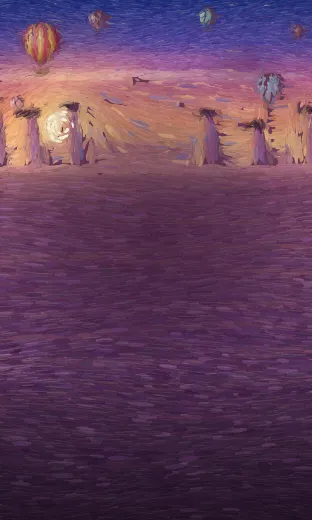
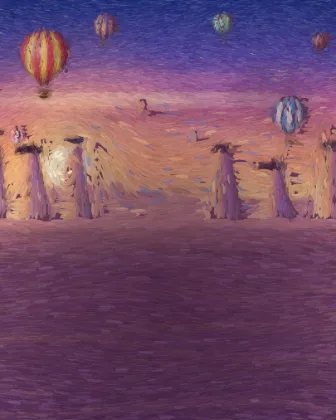
WIP (agents): selling-composed table thumbnails, effects in progress
Claude-Session: https://claude.ai/code/session_01CsFEdfga1NVSso6TsM8PXG

diff --git a/kahvehane/game/dev/tablebake.ts b/kahvehane/game/dev/tablebake.ts
@@ -3,46 +3,78 @@
 // TABLE_BAKE). Market ızgarası, vitrin, setler, koleksiyon ve "Dene"/ürün penceresi (canlı boya gelene dek) bunu gösterir.
 // Elle: /dev/tablebake.html (?only=bogaz) — resimleri ve boyutlarını gösterir.
 import {TABLES} from '../src/themes/tables';
-import {TABLE_BAKE} from '../src/ui/tablepv';
+import {FULL_BAKE, TABLE_BAKE, TABLE_THUMB, TABLE_ZOOM, THUMB} from '../src/ui/tablepv';
 
 const only = new URLSearchParams(location.search).get('only');
+// boyanın yığın halkası (themes/paint.ts spotOf): yüksekliğin %45.5'i
+const RING_Y = 0.455;
 
 interface Out {
   id: string;
+  file: string;
   url: string;
   bytes: number;
   ms: number;
 }
 
+const toUrl = async (c: HTMLCanvasElement, q: number): Promise<{url: string; bytes: number} | null> => {
+  const blob = await new Promise<Blob | null>(r => c.toBlob(r, 'image/webp', q));
+  if (!blob) return null;
+  const url = await new Promise<string>(r => {
+    const fr = new FileReader();
+    fr.onload = () => r(fr.result as string);
+    fr.readAsDataURL(blob);
+  });
+  return {url, bytes: blob.size};
+};
+
+function show(label: string, url: string, w: number): void {
+  const img = new Image();
+  img.src = url;
+  img.style.cssText = `display:inline-block;vertical-align:top;width:${w}px;margin:4px 8px 14px 0`;
+  const lab = document.createElement('div');
+  lab.textContent = label;
+  document.body.append(lab, img);
+}
+
 async function bake(): Promise<Out[]> {
   const out: Out[] = [];
-  const {w, h, dpr, q} = TABLE_BAKE;
   for (const t of TABLES) {
     if (!t.paint || (only && t.id !== only)) continue;
     const t0 = performance.now();
-    const src = await t.paint(w, h, dpr);
-    // boya daha düşük çözünürlükte dönebilir: hedef boya gerilerek çizilir (oyundaki gibi)
+    // 1) satış küçük resmi: oyun oranında büyük çiz, imzayı kırp
+    const big = await t.paint(TABLE_BAKE.w, TABLE_BAKE.h, TABLE_BAKE.dpr);
+    const bw = big.width, bh = big.height;
+    const z = TABLE_ZOOM[t.id] ?? {w: 1, x: 0};
+    const sw = bw * z.w, sx = bw * z.x;
+    const sh = Math.min(bh, (sw * THUMB.h) / THUMB.w);
+    const sy = TABLE_THUMB[t.id] === 'top' ? 0 : Math.max(0, Math.min(bh - sh, bh * RING_Y - sh / 2));
     const c = document.createElement('canvas');
-    c.width = Math.round(w * dpr);
-    c.height = Math.round(h * dpr);
+    c.width = THUMB.w;
+    c.height = THUMB.h;
     const g = c.getContext('2d')!;
     g.imageSmoothingQuality = 'high';
-    g.drawImage(src, 0, 0, c.width, c.height);
+    g.drawImage(big, sx, sy, sw, sh, 0, 0, THUMB.w, THUMB.h);
+    big.width = big.height = 0;
+    const a = await toUrl(c, TABLE_BAKE.q);
+    // 2) büyük sahne yer tutucusu: canlı boyayla aynı oran, düşük çözünürlük
+    const full = await t.paint(FULL_BAKE.w, FULL_BAKE.h, FULL_BAKE.dpr);
+    const f = document.createElement('canvas');
+    f.width = Math.round(FULL_BAKE.w * FULL_BAKE.dpr);
+    f.height = Math.round(FULL_BAKE.h * FULL_BAKE.dpr);
+    const fg = f.getContext('2d')!;
+    fg.imageSmoothingQuality = 'high';
+    fg.drawImage(full, 0, 0, f.width, f.height);
+    const b = await toUrl(f, FULL_BAKE.q);
     const ms = performance.now() - t0;
-    const blob = await new Promise<Blob | null>(r => c.toBlob(r, 'image/webp', q));
-    if (!blob) continue;
-    const url = await new Promise<string>(r => {
-      const fr = new FileReader();
-      fr.onload = () => r(fr.result as string);
-      fr.readAsDataURL(blob);
-    });
-    out.push({id: t.id, url, bytes: blob.size, ms});
-    const img = new Image();
-    img.src = url;
-    img.style.cssText = `display:block;width:${w}px;margin:6px 0 16px`;
-    const lab = document.createElement('div');
-    lab.textContent = `${t.id}: ${(blob.size / 1024).toFixed(1)} KB · çizim ${ms.toFixed(0)} ms`;
-    document.body.append(lab, img);
+    if (a) {
+      out.push({id: t.id, file: `${t.id}.webp`, url: a.url, bytes: a.bytes, ms});
+      show(`${t.id}: ${(a.bytes / 1024).toFixed(1)} KB · ${ms.toFixed(0)} ms`, a.url, 168);
+    }
+    if (b) {
+      out.push({id: t.id, file: `${t.id}.full.webp`, url: b.url, bytes: b.bytes, ms: 0});
+      show(`${t.id} (yer tutucu): ${(b.bytes / 1024).toFixed(1)} KB`, b.url, 100);
+    }
   }
   return out;
 }

diff --git a/kahvehane/game/src/ui/tablepv.ts b/kahvehane/game/src/ui/tablepv.ts
@@ -1,14 +1,36 @@
-// Pişmiş masa küçük resimleri (scripts/bake-tables.mjs → src/ui/tablepv/<id>.webp): temanın GÜNCEL paint() çizimi,
-// ürün penceresindeki sahneyle aynı oranda. Varsa market/koleksiyon karoları ve büyük sahnenin yer tutucusu bunu kullanır;
-// yoksa (boyasız masa: Mavi Arena, ya da henüz pişmemiş yeni masa) TableTheme.swatch.
+// Pişmiş masa resimleri (scripts/bake-tables.mjs → src/ui/tablepv/): her boyalı masa için temanın GÜNCEL paint() çizimi.
+//  - <id>.webp       SATIŞ küçük resmi (ızgara, vitrin, setler, koleksiyon): masa oyundaki gibi telefon oranında büyük
+//                    çizilir, sonra masanın imzası görünecek biçimde kırpılır (TABLE_THUMB). Oran THUMB_ASPECT.
+//  - <id>.full.webp  büyük sahnenin (ürün penceresi, "Dene") yer tutucusu: canlı boyayla AYNI kompozisyon, düşük
+//                    çözünürlük — canlı boya gelince dikişsiz yerini alır.
+// Yoksa (boyasız masa: Mavi Arena, ya da henüz pişmemiş yeni masa) TableTheme.swatch.
 
-/** Pişirme ölçüsü (CSS px × dpr). Oran .6 = ürün penceresindeki masa kartı (.kh-pd__tbl) — canlı boya aynı kompozisyonu
- *  çizer, geçiş dikişsiz. Izgara/set/koleksiyon kartları (.67–.77) ortadan kırpar; boyanın yığın halkası %44–45.5'te kalır. */
-export const TABLE_BAKE = {w: 240, h: 400, dpr: 1.3, q: 0.8} as const;
+/** Büyük çizim: oyun ekranı oranı (412×839 ≈ .49), CSS px × dpr */
+export const TABLE_BAKE = {w: 300, h: 612, dpr: 1.4, q: 0.82} as const;
+/** Satış küçük resmi: genişlik × yükseklik (px). Oran .8 ≈ ızgara karosu (.77) ile koleksiyon karesi arası. */
+export const THUMB = {w: 336, h: 420} as const;
+/** Yer tutucu: ürün penceresindeki masa kartı oranı (.6), düşük çözünürlük */
+export const FULL_BAKE = {w: 240, h: 400, dpr: 0.67, q: 0.72} as const;
+
+/**
+ * Masanın imzası boyanın neresinde: 'top' = üstten kırp (manzara / ebru bordürü: Boğaz'da Galata + ay, Kapadokya'da
+ * balonlar + peribacaları, Yıldızlı Gece'de ay + girdaplar, Ebru'da lale köşeleri ve renkli bordür); yoksa yığın halkası
+ * ortada (desen masaları: çini madalyonu, kadife halkası — kartlar halkanın üstünde durur).
+ */
+export const TABLE_THUMB: Record<string, 'top'> = {gece: 'top', ebru: 'top', kapadokya: 'top', bogaz: 'top'};
+/**
+ * İsteğe bağlı yakınlaştırma: kırpım genişliği (boyanın eninin oranı) ve sol kenarı. Ebru'nun imzası yalnız dış bordür ve
+ * üst köşelerde: sol üst köşeye ağırlıklı daha dar kırpım lale + bordür + yan şeridi karede büyütür.
+ */
+export const TABLE_ZOOM: Record<string, {w: number; x: number}> = {ebru: {w: 0.78, x: 0}};
 
 const baked = import.meta.glob('./tablepv/*.webp', {eager: true, query: '?url', import: 'default'}) as Record<string, string>;
 
-/** Masanın pişmiş küçük resmi (adres) ya da null */
+/** Masanın pişmiş satış küçük resmi (adres) ya da null */
 export function bakedTable(id: string): string | null {
   return baked[`./tablepv/${id}.webp`] ?? null;
+}
+/** Büyük sahne yer tutucusu (adres) ya da null */
+export function bakedTableFull(id: string): string | null {
+  return baked[`./tablepv/${id}.full.webp`] ?? null;
 }

diff --git a/kahvehane/game/src/ui/previews.ts b/kahvehane/game/src/ui/previews.ts
@@ -10,7 +10,7 @@ import type {TableTheme} from '../themes/contract';
 import {ANIM, esc} from './dom';
 import {suitSvg} from './icons';
 import {CI, deckCardHtml, fxStillReady, hasDeck} from './deckpv';
-import {bakedTable} from './tablepv';
+import {TABLE_THUMB, bakedTable, bakedTableFull} from './tablepv';
 import {mountFx, type FxLoop} from './fxpreview';
 
 export {hasDeck};
@@ -197,15 +197,18 @@ function swatchRule(id: string): void {
     swStyle.dataset.kh = 'swatch';
     document.head.append(swStyle);
   }
-  // boyalı masa: pişmiş küçük resim (temanın güncel boyası; ürün penceresindeki canlı boyayla aynı kompozisyon)
-  const pv = bakedTable(id);
-  const bg = pv ? `url("${pv}") 50% 50% / cover no-repeat #0a1033` : tableSwatch(id);
-  const rule = `.kh-ts__bg[data-sw="${CSS.escape(id)}"]{background:${bg}}`;
-  try {
-    swStyle.sheet!.insertRule(rule, swStyle.sheet!.cssRules.length);
-  } catch {
-    swStyle.append(rule);
-  }
+  // boyalı masa: pişmiş SATIŞ küçük resmi (temanın güncel boyası, imzası görünecek kırpım; manzara masalarında üstten
+  // hizalı: daha kare kaplarda alttan kırpılır). Büyük sahnede canlı boyayla aynı kompozisyondaki yer tutucu.
+  const sel = `.kh-ts__bg[data-sw="${CSS.escape(id)}"]`;
+  const pv = bakedTable(id), full = bakedTableFull(id);
+  const rules = [`${sel}{background:${pv ? `url("${pv}") 50% ${TABLE_THUMB[id] === 'top' ? '0%' : '50%'} / cover no-repeat #0a1033` : tableSwatch(id)}}`];
+  if (full) rules.push(`.kh-ts.is-full ${sel}{background:url("${full}") 50% 50% / cover no-repeat #0a1033}`);
+  for (const rule of rules)
+    try {
+      swStyle.sheet!.insertRule(rule, swStyle.sheet!.cssRules.length);
+    } catch {
+      swStyle.append(rule);
+    }
 }
 
 export interface SceneOpts {
@@ -227,8 +230,9 @@ export function tableSceneHtml(id: string, o: SceneOpts): string {
   const d = o.deck;
   const full = o.size === 'full';
   swatchRule(id);
-  // pişmiş boya varsa yığın, boyanın çizdiği halkanın yerinde (%45.5) durur; swatch amblemi ortada (%50)
-  const pt = bakedTable(id) || (full && t?.paint) ? ' is-paint' : '';
+  // yığının yeri: büyük sahnede boyanın halkası (%45.5); küçük resimde desen masalarının halkası ortada (%50, swatch
+  // amblemi de), manzara masalarında manzara üstte kalsın diye aşağıda (.is-scene)
+  const pt = full ? (t?.paint ? ' is-paint' : '') : bakedTable(id) && TABLE_THUMB[id] === 'top' ? ' is-scene' : '';
   if (o.size === 'tile')
     return `<span class="kh-ts is-tile${pt} ${o.cls ?? ''}"><i class="kh-ts__bg" data-sw="${esc(id)}"></i><span class="kh-ts__pile">${deckCardHtml(o.deck, CI.ten, 'kh-ts__c is-p1')}${deckCardHtml(o.deck, CI.queen, 'kh-ts__c is-p2')}</span></span>`;
   const pile = `<span class="kh-ts__pile">${deckCardHtml(d, CI.ten, 'kh-ts__c is-p1')}${deckCardHtml(d, CI.queen, 'kh-ts__c is-p2')}</span>`;

diff --git a/kahvehane/game/src/ui/fx.ts b/kahvehane/game/src/ui/fx.ts
@@ -9,7 +9,7 @@ import {ANIM, EASE, esc, h, play} from './dom';
 import {ASSETS, OPTIONAL_ART} from './assets';
 import {suitSvg, type SuitKey} from './icons';
 import type {HudSounds} from './types';
-import {FX, type Stage} from './fxlib';
+import {FX, FX_MS, type Stage} from './fxlib';
 import {spriteSize, spriteUrl, warmSprites} from './fxsprites';
 
 type Pt = {x: number; y: number};
@@ -347,8 +347,10 @@ export class Fx {
     return r.get();
   }
 
-  /** Oyundaki sahne: bu katman, havuz düğümleri, sesler. */
-  private stage(low: boolean): Stage {
+  /** Oyundaki sahne: bu katman, havuz düğümleri, sesler. Kullanılan düğümler efekt bitince TOPLUCA gizlenir
+   * (her düğüm için ayrı bitiş işleyicisi + display değişimi = her karede stil hesabı olurdu). */
+  private tok = 0;
+  private stage(low: boolean, used: HTMLElement[], tok: string): Stage {
     const W = this.W, H = this.H;
     if (!this.qBack.isConnected) {
       // arka katman damganın (z 2) altında, ön katman üstünde; ekran ışığı en arkada
@@ -360,8 +362,15 @@ export class Fx {
       H,
       M: Math.min(W, H),
       low,
-      node: (key, w, hh, front) => this.qnode(key, w, hh, front),
-      run: (n, kf, o) => this.fly(n, kf, o),
+      node: (key, w, hh, front) => {
+        const n = this.qnode(key, w, hh, front);
+        if (n) {
+          n.dataset.tok = tok;
+          used.push(n);
+        }
+        return n;
+      },
+      run: (n, kf, o) => void play(n, kf, {fill: 'both', ...o}),
       flash: (color, peak, ms, delay = 0) => {
         this.qFlash.style.background = color;
         play(this.qFlash, [{opacity: 0}, {opacity: peak, offset: 0.1}, {opacity: peak * 0.3, offset: 0.4}, {opacity: 0}], {duration: ms, delay, easing: 'ease-out'}, 1);
@@ -373,11 +382,6 @@ export class Fx {
     };
   }
 
-  /** Havuz düğümünü canlandır; bitince gizle. */
-  private fly(n: HTMLElement, kf: Keyframe[], o: KeyframeAnimationOptions): void {
-    play(n, kf, {fill: 'both', ...o}).finished.then(() => hide(n), () => undefined);
-  }
-
   /** Kuşanılmış pişti efekti (bkz. src/ui/fxlib.ts). Vale piştide daha yoğun; `low`: yarı parçacık, ikincil katman yok. */
   pistiFx(id: string, jack: boolean, at: Pt, low = false): void {
     if (!ANIM) return;
@@ -385,6 +389,11 @@ export class Fx {
       this.warmed = true;
       warmSprites(id);
     }
-    (FX[id] ?? FX.klasik)(this.stage(low), at, jack);
+    const used: HTMLElement[] = [], tok = String(++this.tok);
+    const fx = FX[id] ? id : 'klasik';
+    FX[fx](this.stage(low, used, tok), at, jack);
+    window.setTimeout(() => {
+      for (const n of used) if (n.dataset.tok === tok) hide(n);
+    }, (FX_MS[fx] ?? 2000) + (jack ? 600 : 300));
   }
 }

diff --git a/kahvehane/game/src/ui/previews.css b/kahvehane/game/src/ui/previews.css
@@ -22,6 +22,8 @@
 /* --py: yığının dikey yeri. Swatch amblemi tam ortada (50%); boyalı zemin oyundaki gibi %45.5'te çizer (themes/paint.ts spotOf) */
 .kh-ts { --py: 50%; position: absolute; inset: 0; display: block; overflow: hidden; border-radius: inherit; isolation: isolate; }
 .kh-ts.is-paint { --py: 45.5%; }
+/* manzara masası küçük resmi (src/ui/tablepv.ts TABLE_THUMB: üstten kırpılmış): kartlar aşağıda, manzara üstte görünür */
+.kh-ts.is-scene { --py: 60%; }
 .kh-ts__bg, .kh-ts__paint, .kh-ts__vig, .kh-ts__glow { position: absolute; inset: 0; width: 100%; height: 100%; }
 .kh-ts__glow { left: 50%; top: var(--py); width: 92%; height: auto; aspect-ratio: 1; transform: translate(-50%, -50%); border-radius: 50%; background: radial-gradient(circle, var(--glow), transparent 64%); }
 /* yığın halkasını zemin (swatch / boya) kendisi çizer; ikinci halka çakışıyordu */
